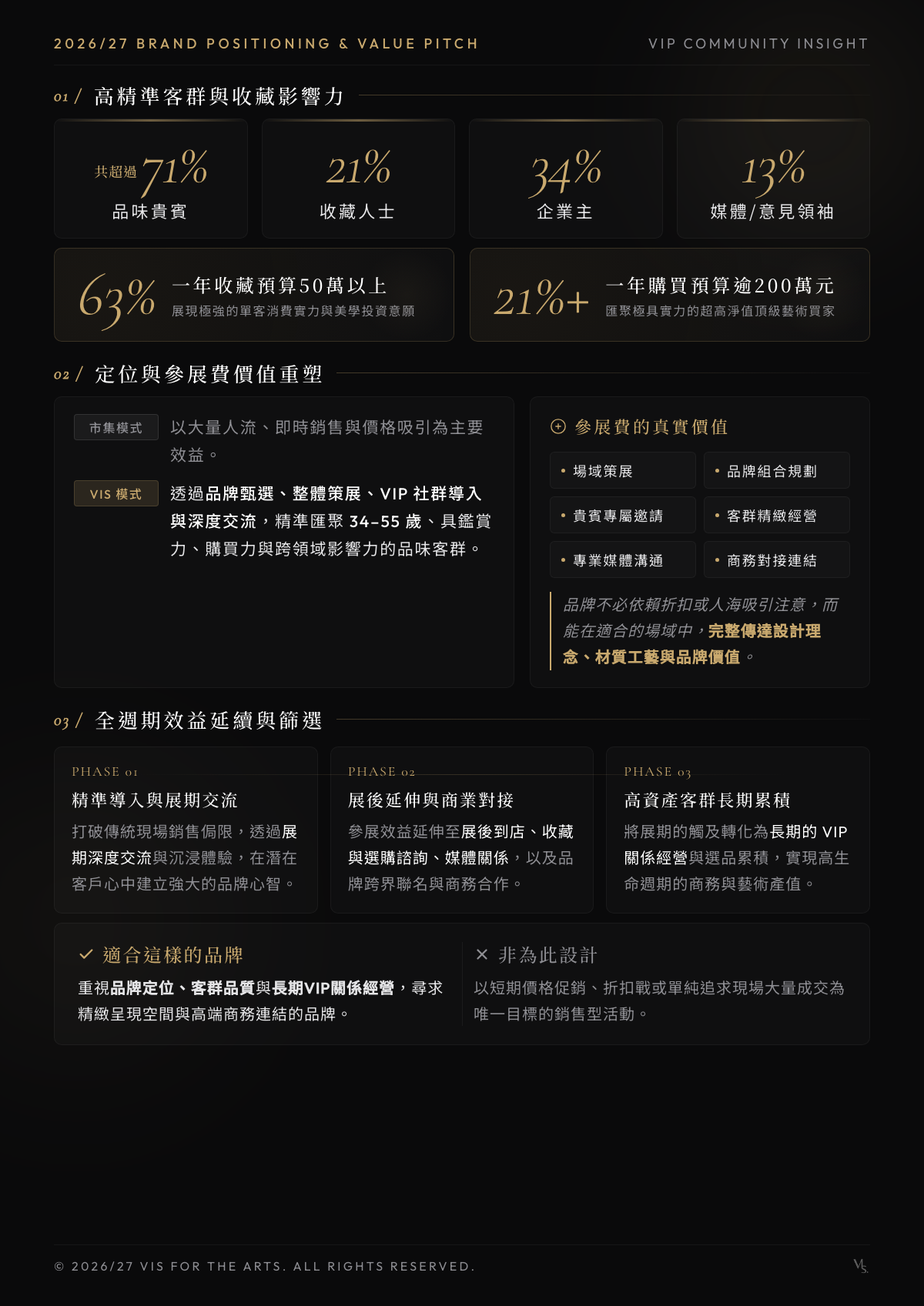
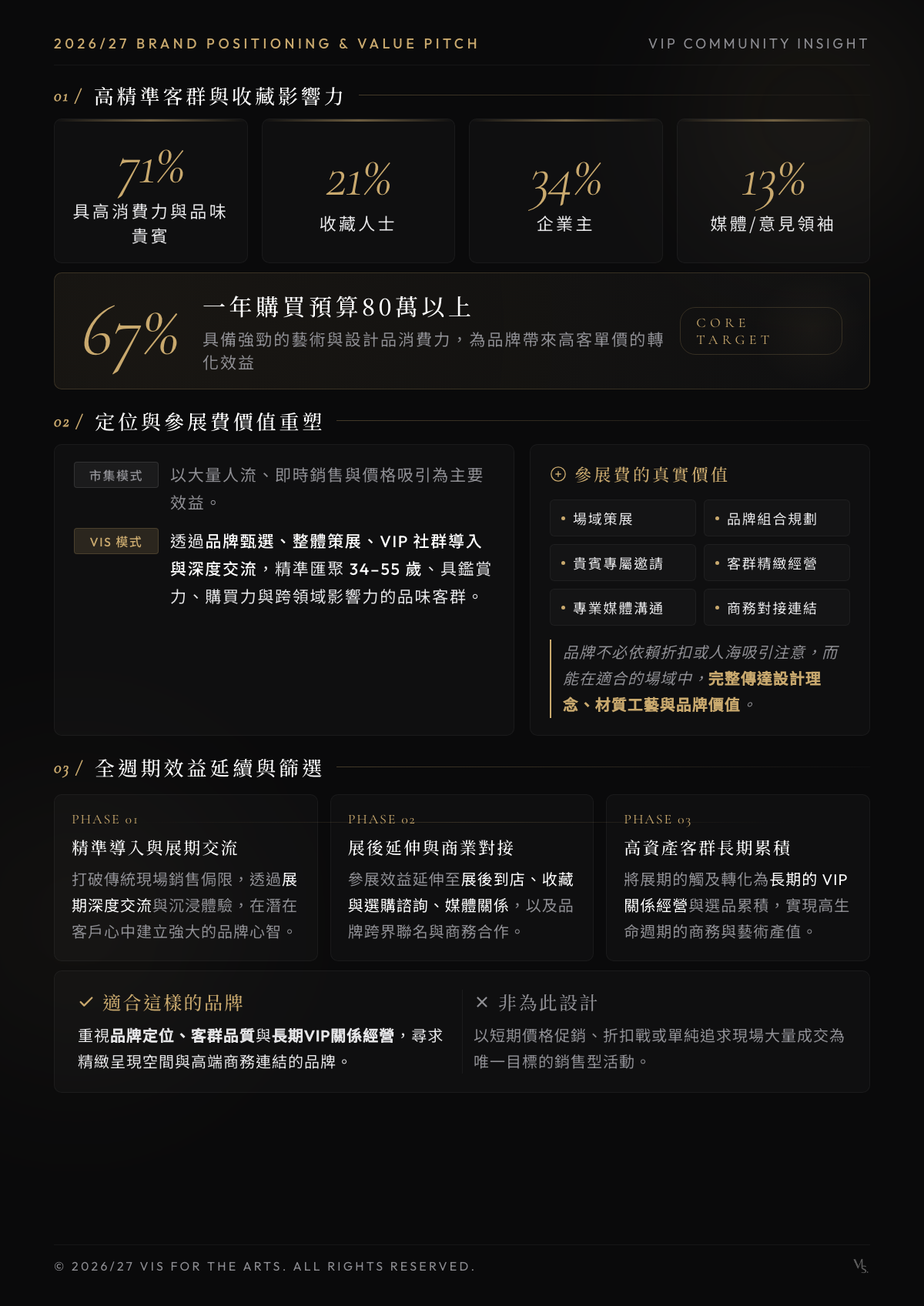
0812-2

diff --git a/public/sw.js b/public/sw.js
@@ -1,1 +1,1 @@
-if(!self.define){let e,a={};const s=(s,i)=>(s=new URL(s+".js",i).href,a[s]||new Promise(a=>{if("document"in self){const e=document.createElement("script");e.src=s,e.onload=a,document.head.appendChild(e)}else e=s,importScripts(s),a()}).then(()=>{let e=a[s];if(!e)throw new Error(`Module ${s} didn’t register its module`);return e}));self.define=(i,c)=>{const n=e||("document"in self?document.currentScript.src:"")||location.href;if(a[n])return;let t={};const r=e=>s(e,n),b={module:{uri:n},exports:t,require:r};a[n]=Promise.all(i.map(e=>b[e]||r(e))).then(e=>(c(...e),t))}}define(["./workbox-4754cb34"],function(e){"use strict";importScripts(),self.skipWaiting(),e.clientsClaim(),e.precacheAndRoute([{url:"/_next/static/7IIuPN5Q31awag9g4lmmB/_buildManifest.js",revision:"8d2cb4b7dce31b6ed1cebf4c4b5e61ac"},{url:"/_next/static/7IIuPN5Q31awag9g4lmmB/_ssgManifest.js",revision:"b6652df95db52feb4daf4eca35380933"},{url:"/_next/static/chunks/1935.12d67265dbe87d5c.js",revision:"12d67265dbe87d5c"},{url:"/_next/static/chunks/2442-48fc89cc48020f3b.js",revision:"48fc89cc48020f3b"},{url:"/_next/static/chunks/3794-9e54f1de291f2323.js",revision:"9e54f1de291f2323"},{url:"/_next/static/chunks/44530001-2ecdcc5f8e26ad69.js",revision:"2ecdcc5f8e26ad69"},{url:"/_next/static/chunks/4bd1b696-c2f6e0877b6c10aa.js",revision:"c2f6e0877b6c10aa"},{url:"/_next/static/chunks/5718-a2e83a96d3df638b.js",revision:"a2e83a96d3df638b"},{url:"/_next/static/chunks/7cb1fa1f.c2615f09a99b926c.js",revision:"c2615f09a99b926c"},{url:"/_next/static/chunks/8108-75477c9dbc44e665.js",revision:"75477c9dbc44e665"},{url:"/_next/static/chunks/8559-80069baef70ba5d4.js",revision:"80069baef70ba5d4"},{url:"/_next/static/chunks/9664-24ef6aaf386e093f.js",revision:"24ef6aaf386e093f"},{url:"/_next/static/chunks/9756-25b6505cfdb3c2d2.js",revision:"25b6505cfdb3c2d2"},{url:"/_next/static/chunks/9764-1abf12f3e423063c.js",revision:"1abf12f3e423063c"},{url:"/_next/static/chunks/9829-d9c5bcde0c562b53.js",revision:"d9c5bcde0c562b53"},{url:"/_next/static/chunks/9831-eadcb2320384112e.js",revision:"eadcb2320384112e"},{url:"/_next/static/chunks/ad2866b8.9e1c933b214cdd99.js",revision:"9e1c933b214cdd99"},{url:"/_next/static/chunks/app/_global-error/page-e0767319db171ab7.js",revision:"e0767319db171ab7"},{url:"/_next/static/chunks/app/_not-found/page-4fb20552999d0ddb.js",revision:"4fb20552999d0ddb"},{url:"/_next/static/chunks/app/api/campaigns/route-e0767319db171ab7.js",revision:"e0767319db171ab7"},{url:"/_next/static/chunks/app/api/exhibitor/apply/route-e0767319db171ab7.js",revision:"e0767319db171ab7"},{url:"/_next/static/chunks/app/api/keep-alive/route-e0767319db171ab7.js",revision:"e0767319db171ab7"},{url:"/_next/static/chunks/app/api/tickets/broadcast/route-e0767319db171ab7.js",revision:"e0767319db171ab7"},{url:"/_next/static/chunks/app/api/tickets/register/route-e0767319db171ab7.js",revision:"e0767319db171ab7"},{url:"/_next/static/chunks/app/api/tickets/waitlist/route-e0767319db171ab7.js",revision:"e0767319db171ab7"},{url:"/_next/static/chunks/app/api/vip/approve/route-e0767319db171ab7.js",revision:"e0767319db171ab7"},{url:"/_next/static/chunks/app/exhibitor/admin/page-bb49a86be0420373.js",revision:"bb49a86be0420373"},{url:"/_next/static/chunks/app/exhibitor/apply/page-d2e1afdace43b5fb.js",revision:"d2e1afdace43b5fb"},{url:"/_next/static/chunks/app/exhibitor/page-2a08c1b97aaf1d09.js",revision:"2a08c1b97aaf1d09"},{url:"/_next/static/chunks/app/exhibitor/portal/compliance/page-dfd4bd4cb59877c2.js",revision:"dfd4bd4cb59877c2"},{url:"/_next/static/chunks/app/exhibitor/portal/layout-b7ad33b60a245db0.js",revision:"b7ad33b60a245db0"},{url:"/_next/static/chunks/app/exhibitor/portal/media/page-090a0c3ca4f453f6.js",revision:"090a0c3ca4f453f6"},{url:"/_next/static/chunks/app/exhibitor/portal/page-2cc885987345aeb3.js",revision:"2cc885987345aeb3"},{url:"/_next/static/chunks/app/exhibitor/portal/vip/page-bf5567f74671b89a.js",revision:"bf5567f74671b89a"},{url:"/_next/static/chunks/app/exhibitor/reset-password/page-f543c7c10670e77e.js",revision:"f543c7c10670e77e"},{url:"/_next/static/chunks/app/layout-899b1b698a50d421.js",revision:"899b1b698a50d421"},{url:"/_next/static/chunks/app/page-cd0c47a84b1b9cee.js",revision:"cd0c47a84b1b9cee"},{url:"/_next/static/chunks/app/ticket/page-6e2911354d8f50b0.js",revision:"6e2911354d8f50b0"},{url:"/_next/static/chunks/app/v2/page-e0d7a6552738983e.js",revision:"e0d7a6552738983e"},{url:"/_next/static/chunks/app/vip/admin/page-048498d58707c98b.js",revision:"048498d58707c98b"},{url:"/_next/static/chunks/app/vip/apply/page-669324e77d495e98.js",revision:"669324e77d495e98"},{url:"/_next/static/chunks/app/vip/blind-box/page-2b82f73f1bbc82a8.js",revision:"2b82f73f1bbc82a8"},{url:"/_next/static/chunks/app/vip/blind-box/redeem/page-2e19fa63aa1a11d2.js",revision:"2e19fa63aa1a11d2"},{url:"/_next/static/chunks/app/vip/dashboard/page-2993298a4c37cc6d.js",revision:"2993298a4c37cc6d"},{url:"/_next/static/chunks/app/vip/onboarding/page-3bc4e6a51a81ccdf.js",revision:"3bc4e6a51a81ccdf"},{url:"/_next/static/chunks/app/vip/page-556c4020f3cdc69f.js",revision:"556c4020f3cdc69f"},{url:"/_next/static/chunks/app/vip/scanner/page-6c433d760317adca.js",revision:"6c433d760317adca"},{url:"/_next/static/chunks/app/vip/story/page-52569030c075c7c9.js",revision:"52569030c075c7c9"},{url:"/_next/static/chunks/framework-d1de002210ddaaef.js",revision:"d1de002210ddaaef"},{url:"/_next/static/chunks/main-3acf8a3c0f422181.js",revision:"3acf8a3c0f422181"},{url:"/_next/static/chunks/main-app-895b698ab6d851d1.js",revision:"895b698ab6d851d1"},{url:"/_next/static/chunks/next/dist/client/components/builtin/app-error-e0767319db171ab7.js",revision:"e0767319db171ab7"},{url:"/_next/static/chunks/next/dist/client/components/builtin/forbidden-e0767319db171ab7.js",revision:"e0767319db171ab7"},{url:"/_next/static/chunks/next/dist/client/components/builtin/global-error-06ee0a672a74501d.js",revision:"06ee0a672a74501d"},{url:"/_next/static/chunks/next/dist/client/components/builtin/not-found-e0767319db171ab7.js",revision:"e0767319db171ab7"},{url:"/_next/static/chunks/next/dist/client/components/builtin/unauthorized-e0767319db171ab7.js",revision:"e0767319db171ab7"},{url:"/_next/static/chunks/polyfills-42372ed130431b0a.js",revision:"846118c33b2c0e922d7b3a7676f81f6f"},{url:"/_next/static/chunks/webpack-e0b90c65d878cbf2.js",revision:"e0b90c65d878cbf2"},{url:"/_next/static/css/16a3c06b043ff6f9.css",revision:"16a3c06b043ff6f9"},{url:"/_next/static/css/b496025c9cd768cc.css",revision:"b496025c9cd768cc"},{url:"/_next/static/media/013b72fa676f92e0-s.woff2",revision:"bc06a1ea50382b6956e53aeb91c889c1"},{url:"/_next/static/media/22a5144ee8d83bca-s.p.woff2",revision:"f4634c3bc1fa7cb53247e1f2872adb5a"},{url:"/_next/static/media/2b5b02fc7e511755-s.woff2",revision:"a27466d069120e75e25b4fd06edd5be2"},{url:"/_next/static/media/65f03d54ccadf4a8-s.woff2",revision:"58bcf4f276e0844890901b91c411447c"},{url:"/_next/static/media/7d4881bb7e1bf84d-s.p.woff2",revision:"cd5b25781181c5c03d99ac2cbf88016a"},{url:"/_next/static/media/9766a7e9e2e0ad5a-s.woff2",revision:"9a45f5a5937490fac6d4f5043a36c125"},{url:"/_next/static/media/aa016aab0e6d1295-s.woff2",revision:"49215a3bccaeb5d483f4cf8fceb24776"},{url:"/_next/static/media/b66cf8e69499582a-s.woff2",revision:"dea7cff2e11a000dc4e0e913992f9c21"},{url:"/_next/static/media/b9408752a0c24fb9-s.woff2",revision:"c10faa6c8fbd7a47d8f00e75e82935cb"},{url:"/_next/static/media/e038a29029a234f2-s.woff2",revision:"42a21c981b367f31bd04683072dae1c1"},{url:"/_next/static/media/f639721981034f88-s.woff2",revision:"f4a75186954722ca80df35984adf581d"},{url:"/blue_island.jpg",revision:"1432414db50782bea7f28e191856128e"},{url:"/blue_island.png",revision:"763f3c71785c1322cc0df65371c41ab4"},{url:"/exhibitor_banner.png",revision:"1a65b566b2f0edee7635b8a0a1b83ae4"},{url:"/exhibitor_banner_new.png",revision:"ca6ad490906e22a5d9bb98beca03a496"},{url:"/exhibitor_banner_new_v2.png",revision:"6a1e11918372a74a7a2681eed5be3fd2"},{url:"/exhibitor_banner_new_v3.jpg",revision:"606bfe90409a51af5249f27ae3b20fd9"},{url:"/file.svg",revision:"d09f95206c3fa0bb9bd9fefabfd0ea71"},{url:"/floor_plan_2027.png",revision:"8433ef4fa15d2ec8130da1f83a5d5973"},{url:"/footer_sponsor_logo.png",revision:"d1662c4841b421ef2a415c73cc04c4bf"},{url:"/fountain_logo.png",revision:"10d4086b00b874a7a73f3c30f504d830"},{url:"/globe.svg",revision:"2aaafa6a49b6563925fe440891e32717"},{url:"/hero_main.png",revision:"2e88135a03a26bf502eb9945374d94b1"},{url:"/hero_main_new.jpg",revision:"ef6c243b835ea6ad866e7fdc663bd097"},{url:"/manifest.json",revision:"21eb5ce0d75a16ae98ee85087ac89255"},{url:"/next.svg",revision:"8e061864f388b47f33a1c3780831193e"},{url:"/sector_artsy.png",revision:"04858c7cc66071c39df068b4aa9cd7ec"},{url:"/sector_atelier.png",revision:"b67658c5e9f09c7f022258f69c04e2a5"},{url:"/sector_premier.png",revision:"7914f3e1c7c42c1aa984cc2922f40219"},{url:"/traditional_formats.png",revision:"043aba76fc6fd4b50c2409319611a69e"},{url:"/user_image_1.png",revision:"9526b95194fda972d61ec67dfe34776b"},{url:"/user_image_2.png",revision:"04858c7cc66071c39df068b4aa9cd7ec"},{url:"/user_image_3.png",revision:"7914f3e1c7c42c1aa984cc2922f40219"},{url:"/user_image_4.png",revision:"b67658c5e9f09c7f022258f69c04e2a5"},{url:"/venue_bg.jpg",revision:"f3e32d87d4ba221fb53dcfdcc27c4c71"},{url:"/vercel.svg",revision:"c0af2f507b369b085b35ef4bbe3bcf1e"},{url:"/vip_lobby_bg.jpg",revision:"fcce81985deb8508040366279ae5090f"},{url:"/vip_lobby_bg.png",revision:"fcce81985deb8508040366279ae5090f"},{url:"/vis_logo.png",revision:"6a1e11918372a74a7a2681eed5be3fd2"},{url:"/window.svg",revision:"a2760511c65806022ad20adf74370ff3"}],{ignoreURLParametersMatching:[]}),e.cleanupOutdatedCaches(),e.registerRoute("/",new e.NetworkFirst({cacheName:"start-url",plugins:[{cacheWillUpdate:async({request:e,response:a,event:s,state:i})=>a&&"opaqueredirect"===a.type?new Response(a.body,{status:200,statusText:"OK",headers:a.headers}):a}]}),"GET"),e.registerRoute(/^https:\/\/fonts\.(?:gstatic)\.com\/.*/i,new e.CacheFirst({cacheName:"google-fonts-webfonts",plugins:[new e.ExpirationPlugin({maxEntries:4,maxAgeSeconds:31536e3})]}),"GET"),e.registerRoute(/^https:\/\/fonts\.(?:googleapis)\.com\/.*/i,new e.StaleWhileRevalidate({cacheName:"google-fonts-stylesheets",plugins:[new e.ExpirationPlugin({maxEntries:4,maxAgeSeconds:604800})]}),"GET"),e.registerRoute(/\.(?:eot|otf|ttc|ttf|woff|woff2|font.css)$/i,new e.StaleWhileRevalidate({cacheName:"static-font-assets",plugins:[new e.ExpirationPlugin({maxEntries:4,maxAgeSeconds:604800})]}),"GET"),e.registerRoute(/\.(?:jpg|jpeg|gif|png|svg|ico|webp)$/i,new e.StaleWhileRevalidate({cacheName:"static-image-assets",plugins:[new e.ExpirationPlugin({maxEntries:64,maxAgeSeconds:86400})]}),"GET"),e.registerRoute(/\/_next\/image\?url=.+$/i,new e.StaleWhileRevalidate({cacheName:"next-image",plugins:[new e.ExpirationPlugin({maxEntries:64,maxAgeSeconds:86400})]}),"GET"),e.registerRoute(/\.(?:mp3|wav|ogg)$/i,new e.CacheFirst({cacheName:"static-audio-assets",plugins:[new e.RangeRequestsPlugin,new e.ExpirationPlugin({maxEntries:32,maxAgeSeconds:86400})]}),"GET"),e.registerRoute(/\.(?:mp4)$/i,new e.CacheFirst({cacheName:"static-video-assets",plugins:[new e.RangeRequestsPlugin,new e.ExpirationPlugin({maxEntries:32,maxAgeSeconds:86400})]}),"GET"),e.registerRoute(/\.(?:js)$/i,new e.StaleWhileRevalidate({cacheName:"static-js-assets",plugins:[new e.ExpirationPlugin({maxEntries:32,maxAgeSeconds:86400})]}),"GET"),e.registerRoute(/\.(?:css|less)$/i,new e.StaleWhileRevalidate({cacheName:"static-style-assets",plugins:[new e.ExpirationPlugin({maxEntries:32,maxAgeSeconds:86400})]}),"GET"),e.registerRoute(/\/_next\/data\/.+\/.+\.json$/i,new e.StaleWhileRevalidate({cacheName:"next-data",plugins:[new e.ExpirationPlugin({maxEntries:32,maxAgeSeconds:86400})]}),"GET"),e.registerRoute(/\.(?:json|xml|csv)$/i,new e.NetworkFirst({cacheName:"static-data-assets",plugins:[new e.ExpirationPlugin({maxEntries:32,maxAgeSeconds:86400})]}),"GET"),e.registerRoute(({url:e})=>{if(!(self.origin===e.origin))return!1;const a=e.pathname;return!a.startsWith("/api/auth/")&&!!a.startsWith("/api/")},new e.NetworkFirst({cacheName:"apis",networkTimeoutSeconds:10,plugins:[new e.ExpirationPlugin({maxEntries:16,maxAgeSeconds:86400})]}),"GET"),e.registerRoute(({url:e})=>{if(!(self.origin===e.origin))return!1;return!e.pathname.startsWith("/api/")},new e.NetworkFirst({cacheName:"others",networkTimeoutSeconds:10,plugins:[new e.ExpirationPlugin({maxEntries:32,maxAgeSeconds:86400})]}),"GET"),e.registerRoute(({url:e})=>!(self.origin===e.origin),new e.NetworkFirst({cacheName:"cross-origin",networkTimeoutSeconds:10,plugins:[new e.ExpirationPlugin({maxEntries:32,maxAgeSeconds:3600})]}),"GET")});
+if(!self.define){let e,a={};const s=(s,i)=>(s=new URL(s+".js",i).href,a[s]||new Promise(a=>{if("document"in self){const e=document.createElement("script");e.src=s,e.onload=a,document.head.appendChild(e)}else e=s,importScripts(s),a()}).then(()=>{let e=a[s];if(!e)throw new Error(`Module ${s} didn’t register its module`);return e}));self.define=(i,c)=>{const n=e||("document"in self?document.currentScript.src:"")||location.href;if(a[n])return;let t={};const r=e=>s(e,n),b={module:{uri:n},exports:t,require:r};a[n]=Promise.all(i.map(e=>b[e]||r(e))).then(e=>(c(...e),t))}}define(["./workbox-4754cb34"],function(e){"use strict";importScripts(),self.skipWaiting(),e.clientsClaim(),e.precacheAndRoute([{url:"/_next/static/AYjJpU0tDRki5Kc2ej32A/_buildManifest.js",revision:"8d2cb4b7dce31b6ed1cebf4c4b5e61ac"},{url:"/_next/static/AYjJpU0tDRki5Kc2ej32A/_ssgManifest.js",revision:"b6652df95db52feb4daf4eca35380933"},{url:"/_next/static/chunks/1935.12d67265dbe87d5c.js",revision:"12d67265dbe87d5c"},{url:"/_next/static/chunks/2442-48fc89cc48020f3b.js",revision:"48fc89cc48020f3b"},{url:"/_next/static/chunks/3794-9e54f1de291f2323.js",revision:"9e54f1de291f2323"},{url:"/_next/static/chunks/44530001-2ecdcc5f8e26ad69.js",revision:"2ecdcc5f8e26ad69"},{url:"/_next/static/chunks/4bd1b696-c2f6e0877b6c10aa.js",revision:"c2f6e0877b6c10aa"},{url:"/_next/static/chunks/5718-a2e83a96d3df638b.js",revision:"a2e83a96d3df638b"},{url:"/_next/static/chunks/7cb1fa1f.c2615f09a99b926c.js",revision:"c2615f09a99b926c"},{url:"/_next/static/chunks/8108-75477c9dbc44e665.js",revision:"75477c9dbc44e665"},{url:"/_next/static/chunks/8559-80069baef70ba5d4.js",revision:"80069baef70ba5d4"},{url:"/_next/static/chunks/9664-24ef6aaf386e093f.js",revision:"24ef6aaf386e093f"},{url:"/_next/static/chunks/9756-25b6505cfdb3c2d2.js",revision:"25b6505cfdb3c2d2"},{url:"/_next/static/chunks/9764-1abf12f3e423063c.js",revision:"1abf12f3e423063c"},{url:"/_next/static/chunks/9829-d9c5bcde0c562b53.js",revision:"d9c5bcde0c562b53"},{url:"/_next/static/chunks/9831-eadcb2320384112e.js",revision:"eadcb2320384112e"},{url:"/_next/static/chunks/ad2866b8.9e1c933b214cdd99.js",revision:"9e1c933b214cdd99"},{url:"/_next/static/chunks/app/_global-error/page-e0767319db171ab7.js",revision:"e0767319db171ab7"},{url:"/_next/static/chunks/app/_not-found/page-4fb20552999d0ddb.js",revision:"4fb20552999d0ddb"},{url:"/_next/static/chunks/app/api/campaigns/route-e0767319db171ab7.js",revision:"e0767319db171ab7"},{url:"/_next/static/chunks/app/api/exhibitor/apply/route-e0767319db171ab7.js",revision:"e0767319db171ab7"},{url:"/_next/static/chunks/app/api/keep-alive/route-e0767319db171ab7.js",revision:"e0767319db171ab7"},{url:"/_next/static/chunks/app/api/tickets/broadcast/route-e0767319db171ab7.js",revision:"e0767319db171ab7"},{url:"/_next/static/chunks/app/api/tickets/register/route-e0767319db171ab7.js",revision:"e0767319db171ab7"},{url:"/_next/static/chunks/app/api/tickets/waitlist/route-e0767319db171ab7.js",revision:"e0767319db171ab7"},{url:"/_next/static/chunks/app/api/vip/approve/route-e0767319db171ab7.js",revision:"e0767319db171ab7"},{url:"/_next/static/chunks/app/exhibitor/admin/page-bb49a86be0420373.js",revision:"bb49a86be0420373"},{url:"/_next/static/chunks/app/exhibitor/apply/page-42f97f7e1c81765b.js",revision:"42f97f7e1c81765b"},{url:"/_next/static/chunks/app/exhibitor/page-2a08c1b97aaf1d09.js",revision:"2a08c1b97aaf1d09"},{url:"/_next/static/chunks/app/exhibitor/portal/compliance/page-dfd4bd4cb59877c2.js",revision:"dfd4bd4cb59877c2"},{url:"/_next/static/chunks/app/exhibitor/portal/layout-b7ad33b60a245db0.js",revision:"b7ad33b60a245db0"},{url:"/_next/static/chunks/app/exhibitor/portal/media/page-090a0c3ca4f453f6.js",revision:"090a0c3ca4f453f6"},{url:"/_next/static/chunks/app/exhibitor/portal/page-2cc885987345aeb3.js",revision:"2cc885987345aeb3"},{url:"/_next/static/chunks/app/exhibitor/portal/vip/page-bf5567f74671b89a.js",revision:"bf5567f74671b89a"},{url:"/_next/static/chunks/app/exhibitor/reset-password/page-f543c7c10670e77e.js",revision:"f543c7c10670e77e"},{url:"/_next/static/chunks/app/layout-899b1b698a50d421.js",revision:"899b1b698a50d421"},{url:"/_next/static/chunks/app/page-cd0c47a84b1b9cee.js",revision:"cd0c47a84b1b9cee"},{url:"/_next/static/chunks/app/ticket/page-6e2911354d8f50b0.js",revision:"6e2911354d8f50b0"},{url:"/_next/static/chunks/app/v2/page-e0d7a6552738983e.js",revision:"e0d7a6552738983e"},{url:"/_next/static/chunks/app/vip/admin/page-048498d58707c98b.js",revision:"048498d58707c98b"},{url:"/_next/static/chunks/app/vip/apply/page-669324e77d495e98.js",revision:"669324e77d495e98"},{url:"/_next/static/chunks/app/vip/blind-box/page-2b82f73f1bbc82a8.js",revision:"2b82f73f1bbc82a8"},{url:"/_next/static/chunks/app/vip/blind-box/redeem/page-2e19fa63aa1a11d2.js",revision:"2e19fa63aa1a11d2"},{url:"/_next/static/chunks/app/vip/dashboard/page-2993298a4c37cc6d.js",revision:"2993298a4c37cc6d"},{url:"/_next/static/chunks/app/vip/onboarding/page-3bc4e6a51a81ccdf.js",revision:"3bc4e6a51a81ccdf"},{url:"/_next/static/chunks/app/vip/page-556c4020f3cdc69f.js",revision:"556c4020f3cdc69f"},{url:"/_next/static/chunks/app/vip/scanner/page-6c433d760317adca.js",revision:"6c433d760317adca"},{url:"/_next/static/chunks/app/vip/story/page-52569030c075c7c9.js",revision:"52569030c075c7c9"},{url:"/_next/static/chunks/framework-d1de002210ddaaef.js",revision:"d1de002210ddaaef"},{url:"/_next/static/chunks/main-3acf8a3c0f422181.js",revision:"3acf8a3c0f422181"},{url:"/_next/static/chunks/main-app-895b698ab6d851d1.js",revision:"895b698ab6d851d1"},{url:"/_next/static/chunks/next/dist/client/components/builtin/app-error-e0767319db171ab7.js",revision:"e0767319db171ab7"},{url:"/_next/static/chunks/next/dist/client/components/builtin/forbidden-e0767319db171ab7.js",revision:"e0767319db171ab7"},{url:"/_next/static/chunks/next/dist/client/components/builtin/global-error-06ee0a672a74501d.js",revision:"06ee0a672a74501d"},{url:"/_next/static/chunks/next/dist/client/components/builtin/not-found-e0767319db171ab7.js",revision:"e0767319db171ab7"},{url:"/_next/static/chunks/next/dist/client/components/builtin/unauthorized-e0767319db171ab7.js",revision:"e0767319db171ab7"},{url:"/_next/static/chunks/polyfills-42372ed130431b0a.js",revision:"846118c33b2c0e922d7b3a7676f81f6f"},{url:"/_next/static/chunks/webpack-e0b90c65d878cbf2.js",revision:"e0b90c65d878cbf2"},{url:"/_next/static/css/16a3c06b043ff6f9.css",revision:"16a3c06b043ff6f9"},{url:"/_next/static/css/b496025c9cd768cc.css",revision:"b496025c9cd768cc"},{url:"/_next/static/media/013b72fa676f92e0-s.woff2",revision:"bc06a1ea50382b6956e53aeb91c889c1"},{url:"/_next/static/media/22a5144ee8d83bca-s.p.woff2",revision:"f4634c3bc1fa7cb53247e1f2872adb5a"},{url:"/_next/static/media/2b5b02fc7e511755-s.woff2",revision:"a27466d069120e75e25b4fd06edd5be2"},{url:"/_next/static/media/65f03d54ccadf4a8-s.woff2",revision:"58bcf4f276e0844890901b91c411447c"},{url:"/_next/static/media/7d4881bb7e1bf84d-s.p.woff2",revision:"cd5b25781181c5c03d99ac2cbf88016a"},{url:"/_next/static/media/9766a7e9e2e0ad5a-s.woff2",revision:"9a45f5a5937490fac6d4f5043a36c125"},{url:"/_next/static/media/aa016aab0e6d1295-s.woff2",revision:"49215a3bccaeb5d483f4cf8fceb24776"},{url:"/_next/static/media/b66cf8e69499582a-s.woff2",revision:"dea7cff2e11a000dc4e0e913992f9c21"},{url:"/_next/static/media/b9408752a0c24fb9-s.woff2",revision:"c10faa6c8fbd7a47d8f00e75e82935cb"},{url:"/_next/static/media/e038a29029a234f2-s.woff2",revision:"42a21c981b367f31bd04683072dae1c1"},{url:"/_next/static/media/f639721981034f88-s.woff2",revision:"f4a75186954722ca80df35984adf581d"},{url:"/blue_island.jpg",revision:"1432414db50782bea7f28e191856128e"},{url:"/blue_island.png",revision:"763f3c71785c1322cc0df65371c41ab4"},{url:"/exhibitor_banner.png",revision:"1a65b566b2f0edee7635b8a0a1b83ae4"},{url:"/exhibitor_banner_new.png",revision:"ca6ad490906e22a5d9bb98beca03a496"},{url:"/exhibitor_banner_new_v2.png",revision:"6a1e11918372a74a7a2681eed5be3fd2"},{url:"/exhibitor_banner_new_v3.jpg",revision:"606bfe90409a51af5249f27ae3b20fd9"},{url:"/file.svg",revision:"d09f95206c3fa0bb9bd9fefabfd0ea71"},{url:"/floor_plan_2027.png",revision:"8433ef4fa15d2ec8130da1f83a5d5973"},{url:"/footer_sponsor_logo.png",revision:"d1662c4841b421ef2a415c73cc04c4bf"},{url:"/fountain_logo.png",revision:"10d4086b00b874a7a73f3c30f504d830"},{url:"/globe.svg",revision:"2aaafa6a49b6563925fe440891e32717"},{url:"/hero_main.png",revision:"2e88135a03a26bf502eb9945374d94b1"},{url:"/hero_main_new.jpg",revision:"ef6c243b835ea6ad866e7fdc663bd097"},{url:"/manifest.json",revision:"21eb5ce0d75a16ae98ee85087ac89255"},{url:"/next.svg",revision:"8e061864f388b47f33a1c3780831193e"},{url:"/sector_artsy.png",revision:"04858c7cc66071c39df068b4aa9cd7ec"},{url:"/sector_atelier.png",revision:"b67658c5e9f09c7f022258f69c04e2a5"},{url:"/sector_premier.png",revision:"7914f3e1c7c42c1aa984cc2922f40219"},{url:"/traditional_formats.png",revision:"043aba76fc6fd4b50c2409319611a69e"},{url:"/user_image_1.png",revision:"9526b95194fda972d61ec67dfe34776b"},{url:"/user_image_2.png",revision:"04858c7cc66071c39df068b4aa9cd7ec"},{url:"/user_image_3.png",revision:"7914f3e1c7c42c1aa984cc2922f40219"},{url:"/user_image_4.png",revision:"b67658c5e9f09c7f022258f69c04e2a5"},{url:"/venue_bg.jpg",revision:"f3e32d87d4ba221fb53dcfdcc27c4c71"},{url:"/vercel.svg",revision:"c0af2f507b369b085b35ef4bbe3bcf1e"},{url:"/vip_lobby_bg.jpg",revision:"fcce81985deb8508040366279ae5090f"},{url:"/vip_lobby_bg.png",revision:"fcce81985deb8508040366279ae5090f"},{url:"/vis_logo.png",revision:"6a1e11918372a74a7a2681eed5be3fd2"},{url:"/window.svg",revision:"a2760511c65806022ad20adf74370ff3"}],{ignoreURLParametersMatching:[]}),e.cleanupOutdatedCaches(),e.registerRoute("/",new e.NetworkFirst({cacheName:"start-url",plugins:[{cacheWillUpdate:async({request:e,response:a,event:s,state:i})=>a&&"opaqueredirect"===a.type?new Response(a.body,{status:200,statusText:"OK",headers:a.headers}):a}]}),"GET"),e.registerRoute(/^https:\/\/fonts\.(?:gstatic)\.com\/.*/i,new e.CacheFirst({cacheName:"google-fonts-webfonts",plugins:[new e.ExpirationPlugin({maxEntries:4,maxAgeSeconds:31536e3})]}),"GET"),e.registerRoute(/^https:\/\/fonts\.(?:googleapis)\.com\/.*/i,new e.StaleWhileRevalidate({cacheName:"google-fonts-stylesheets",plugins:[new e.ExpirationPlugin({maxEntries:4,maxAgeSeconds:604800})]}),"GET"),e.registerRoute(/\.(?:eot|otf|ttc|ttf|woff|woff2|font.css)$/i,new e.StaleWhileRevalidate({cacheName:"static-font-assets",plugins:[new e.ExpirationPlugin({maxEntries:4,maxAgeSeconds:604800})]}),"GET"),e.registerRoute(/\.(?:jpg|jpeg|gif|png|svg|ico|webp)$/i,new e.StaleWhileRevalidate({cacheName:"static-image-assets",plugins:[new e.ExpirationPlugin({maxEntries:64,maxAgeSeconds:86400})]}),"GET"),e.registerRoute(/\/_next\/image\?url=.+$/i,new e.StaleWhileRevalidate({cacheName:"next-image",plugins:[new e.ExpirationPlugin({maxEntries:64,maxAgeSeconds:86400})]}),"GET"),e.registerRoute(/\.(?:mp3|wav|ogg)$/i,new e.CacheFirst({cacheName:"static-audio-assets",plugins:[new e.RangeRequestsPlugin,new e.ExpirationPlugin({maxEntries:32,maxAgeSeconds:86400})]}),"GET"),e.registerRoute(/\.(?:mp4)$/i,new e.CacheFirst({cacheName:"static-video-assets",plugins:[new e.RangeRequestsPlugin,new e.ExpirationPlugin({maxEntries:32,maxAgeSeconds:86400})]}),"GET"),e.registerRoute(/\.(?:js)$/i,new e.StaleWhileRevalidate({cacheName:"static-js-assets",plugins:[new e.ExpirationPlugin({maxEntries:32,maxAgeSeconds:86400})]}),"GET"),e.registerRoute(/\.(?:css|less)$/i,new e.StaleWhileRevalidate({cacheName:"static-style-assets",plugins:[new e.ExpirationPlugin({maxEntries:32,maxAgeSeconds:86400})]}),"GET"),e.registerRoute(/\/_next\/data\/.+\/.+\.json$/i,new e.StaleWhileRevalidate({cacheName:"next-data",plugins:[new e.ExpirationPlugin({maxEntries:32,maxAgeSeconds:86400})]}),"GET"),e.registerRoute(/\.(?:json|xml|csv)$/i,new e.NetworkFirst({cacheName:"static-data-assets",plugins:[new e.ExpirationPlugin({maxEntries:32,maxAgeSeconds:86400})]}),"GET"),e.registerRoute(({url:e})=>{if(!(self.origin===e.origin))return!1;const a=e.pathname;return!a.startsWith("/api/auth/")&&!!a.startsWith("/api/")},new e.NetworkFirst({cacheName:"apis",networkTimeoutSeconds:10,plugins:[new e.ExpirationPlugin({maxEntries:16,maxAgeSeconds:86400})]}),"GET"),e.registerRoute(({url:e})=>{if(!(self.origin===e.origin))return!1;return!e.pathname.startsWith("/api/")},new e.NetworkFirst({cacheName:"others",networkTimeoutSeconds:10,plugins:[new e.ExpirationPlugin({maxEntries:32,maxAgeSeconds:86400})]}),"GET"),e.registerRoute(({url:e})=>!(self.origin===e.origin),new e.NetworkFirst({cacheName:"cross-origin",networkTimeoutSeconds:10,plugins:[new e.ExpirationPlugin({maxEntries:32,maxAgeSeconds:3600})]}),"GET")});

diff --git a/vis_pitch_a4.html b/vis_pitch_a4.html
@@ -207,20 +207,14 @@
         }
 
         /* Spotlight High-Budget Banner */
-        .spotlight-grid {
-            display: grid;
-            grid-template-columns: 1fr 1fr;
-            gap: 20px;
-        }
-
         .spotlight-banner {
             background: radial-gradient(circle at 10% 50%, var(--pola-gold-glow) 0%, var(--glass-bg) 100%);
             border: 1px solid var(--pola-gold-dim);
             border-radius: 10px;
-            padding: 20px 30px;
+            padding: 20px 35px;
             display: flex;
             align-items: center;
-            justify-content: flex-start;
+            justify-content: space-between;
             position: relative;
             overflow: hidden;
         }
@@ -229,7 +223,7 @@
             content: '';
             position: absolute;
             right: 0; bottom: 0;
-            width: 120px; height: 120px;
+            width: 150px; height: 150px;
             background: radial-gradient(circle, rgba(201, 169, 110, 0.05) 0%, transparent 70%);
             pointer-events: none;
         }
@@ -237,12 +231,12 @@
         .spotlight-left {
             display: flex;
             align-items: center;
-            gap: 20px;
+            gap: 30px;
         }
 
         .spotlight-huge-pct {
             font-family: 'Cormorant Garamond', serif;
-            font-size: 80px;
+            font-size: 96px;
             font-weight: 300;
             color: var(--pola-gold);
             line-height: 1;
@@ -252,12 +246,12 @@
         .spotlight-meta {
             display: flex;
             flex-direction: column;
-            gap: 4px;
+            gap: 6px;
         }
 
         .spotlight-title {
             font-family: 'Noto Serif TC', serif;
-            font-size: 24px;
+            font-size: 30px;
             font-weight: 500;
             color: #FFFFFF;
             letter-spacing: 0.15em;
@@ -265,9 +259,20 @@
 
         .spotlight-desc {
             font-family: 'Noto Sans TC', sans-serif;
-            font-size: 16px;
+            font-size: 21px;
             color: var(--text-muted);
             letter-spacing: 0.1em;
+        }
+
+        .spotlight-right-label {
+            font-family: 'Cormorant Garamond', serif;
+            font-size: 18px;
+            letter-spacing: 0.3em;
+            color: var(--pola-gold);
+            text-transform: uppercase;
+            border: 1px solid var(--pola-gold-dim);
+            padding: 8px 20px;
+            border-radius: 20px;
         }
 
         /* --- Section 2: Values & Comparisons --- */
@@ -571,8 +576,8 @@
                 <!-- 4 Demographics Card Grid -->
                 <div class="stats-grid-row">
                     <div class="stat-card">
-                        <span class="stat-number"><span style="font-family: 'Noto Serif TC', serif; font-size: 18px; font-style: normal; vertical-align: middle; margin-right: 4px; font-weight: 500; letter-spacing: 0.05em;">共超過</span>71%</span>
-                        <span class="stat-label">品味貴賓</span>
+                        <span class="stat-number">71%</span>
+                        <span class="stat-label">具高消費力與品味貴賓</span>
                     </div>
                     <div class="stat-card">
                         <span class="stat-number">21%</span>
@@ -588,26 +593,16 @@
                     </div>
                 </div>
                 
-                <!-- Budget Spotlight Grid -->
-                <div class="spotlight-grid">
-                    <div class="spotlight-banner">
-                        <div class="spotlight-left">
-                            <span class="spotlight-huge-pct">63%</span>
-                            <div class="spotlight-meta">
-                                <h3 class="spotlight-title">一年收藏預算50萬以上</h3>
-                                <p class="spotlight-desc">展現極強的單客消費實力與美學投資意願</p>
-                            </div>
+                <!-- Budget Spotlight Banner -->
+                <div class="spotlight-banner">
+                    <div class="spotlight-left">
+                        <span class="spotlight-huge-pct">67%</span>
+                        <div class="spotlight-meta">
+                            <h3 class="spotlight-title">一年購買預算80萬以上</h3>
+                            <p class="spotlight-desc">具備強勁的藝術與設計品消費力，為品牌帶來高客單價的轉化效益</p>
                         </div>
                     </div>
-                    <div class="spotlight-banner">
-                        <div class="spotlight-left">
-                            <span class="spotlight-huge-pct">21%+</span>
-                            <div class="spotlight-meta">
-                                <h3 class="spotlight-title">一年購買預算逾200萬元</h3>
-                                <p class="spotlight-desc">匯聚極具實力的超高淨值頂級藝術買家</p>
-                            </div>
-                        </div>
-                    </div>
+                    <span class="spotlight-right-label">Core Target</span>
                 </div>
             </section>
 

diff --git a/src/app/exhibitor/apply/page.tsx b/src/app/exhibitor/apply/page.tsx
@@ -507,7 +507,7 @@ export default function ExhibitorApplyPage() {
             {dict[lang].loginRequiredSub}
           </p>
           <Link 
-            href="/exhibitor/portal"
+            href="/exhibitor"
             className="block w-full bg-[#C9A96E] hover:bg-[#B39359] text-white text-xs font-semibold tracking-widest uppercase py-3.5 shadow-md transition-colors"
           >
             {dict[lang].loginRedirectBtn}
